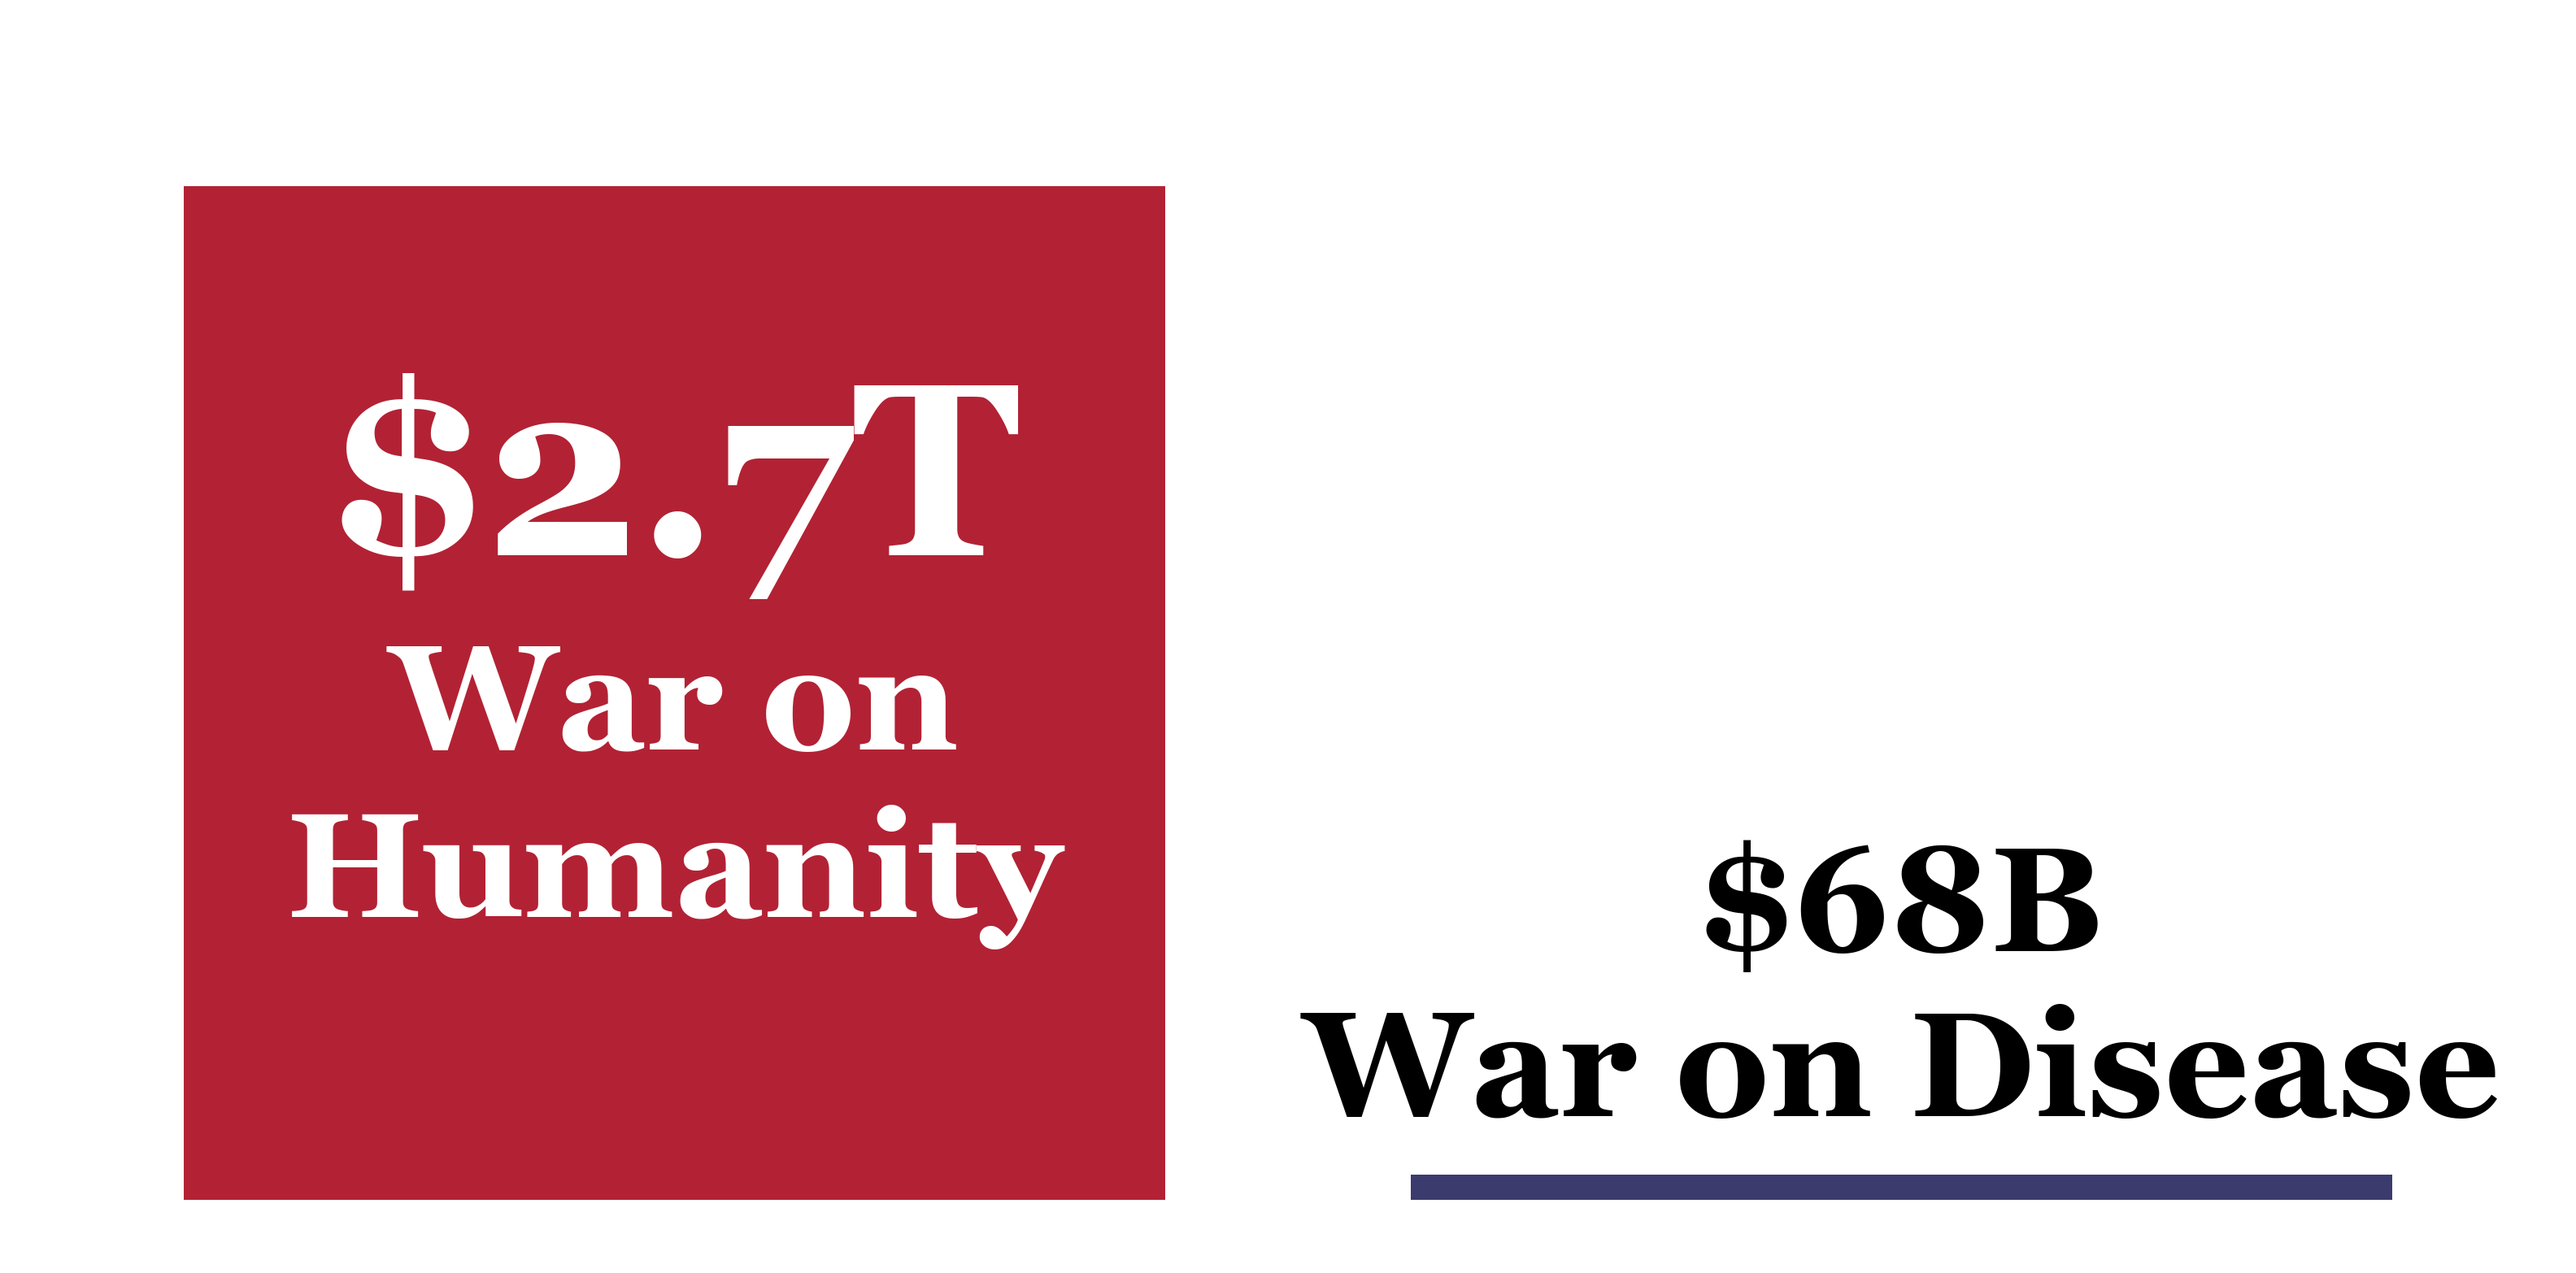
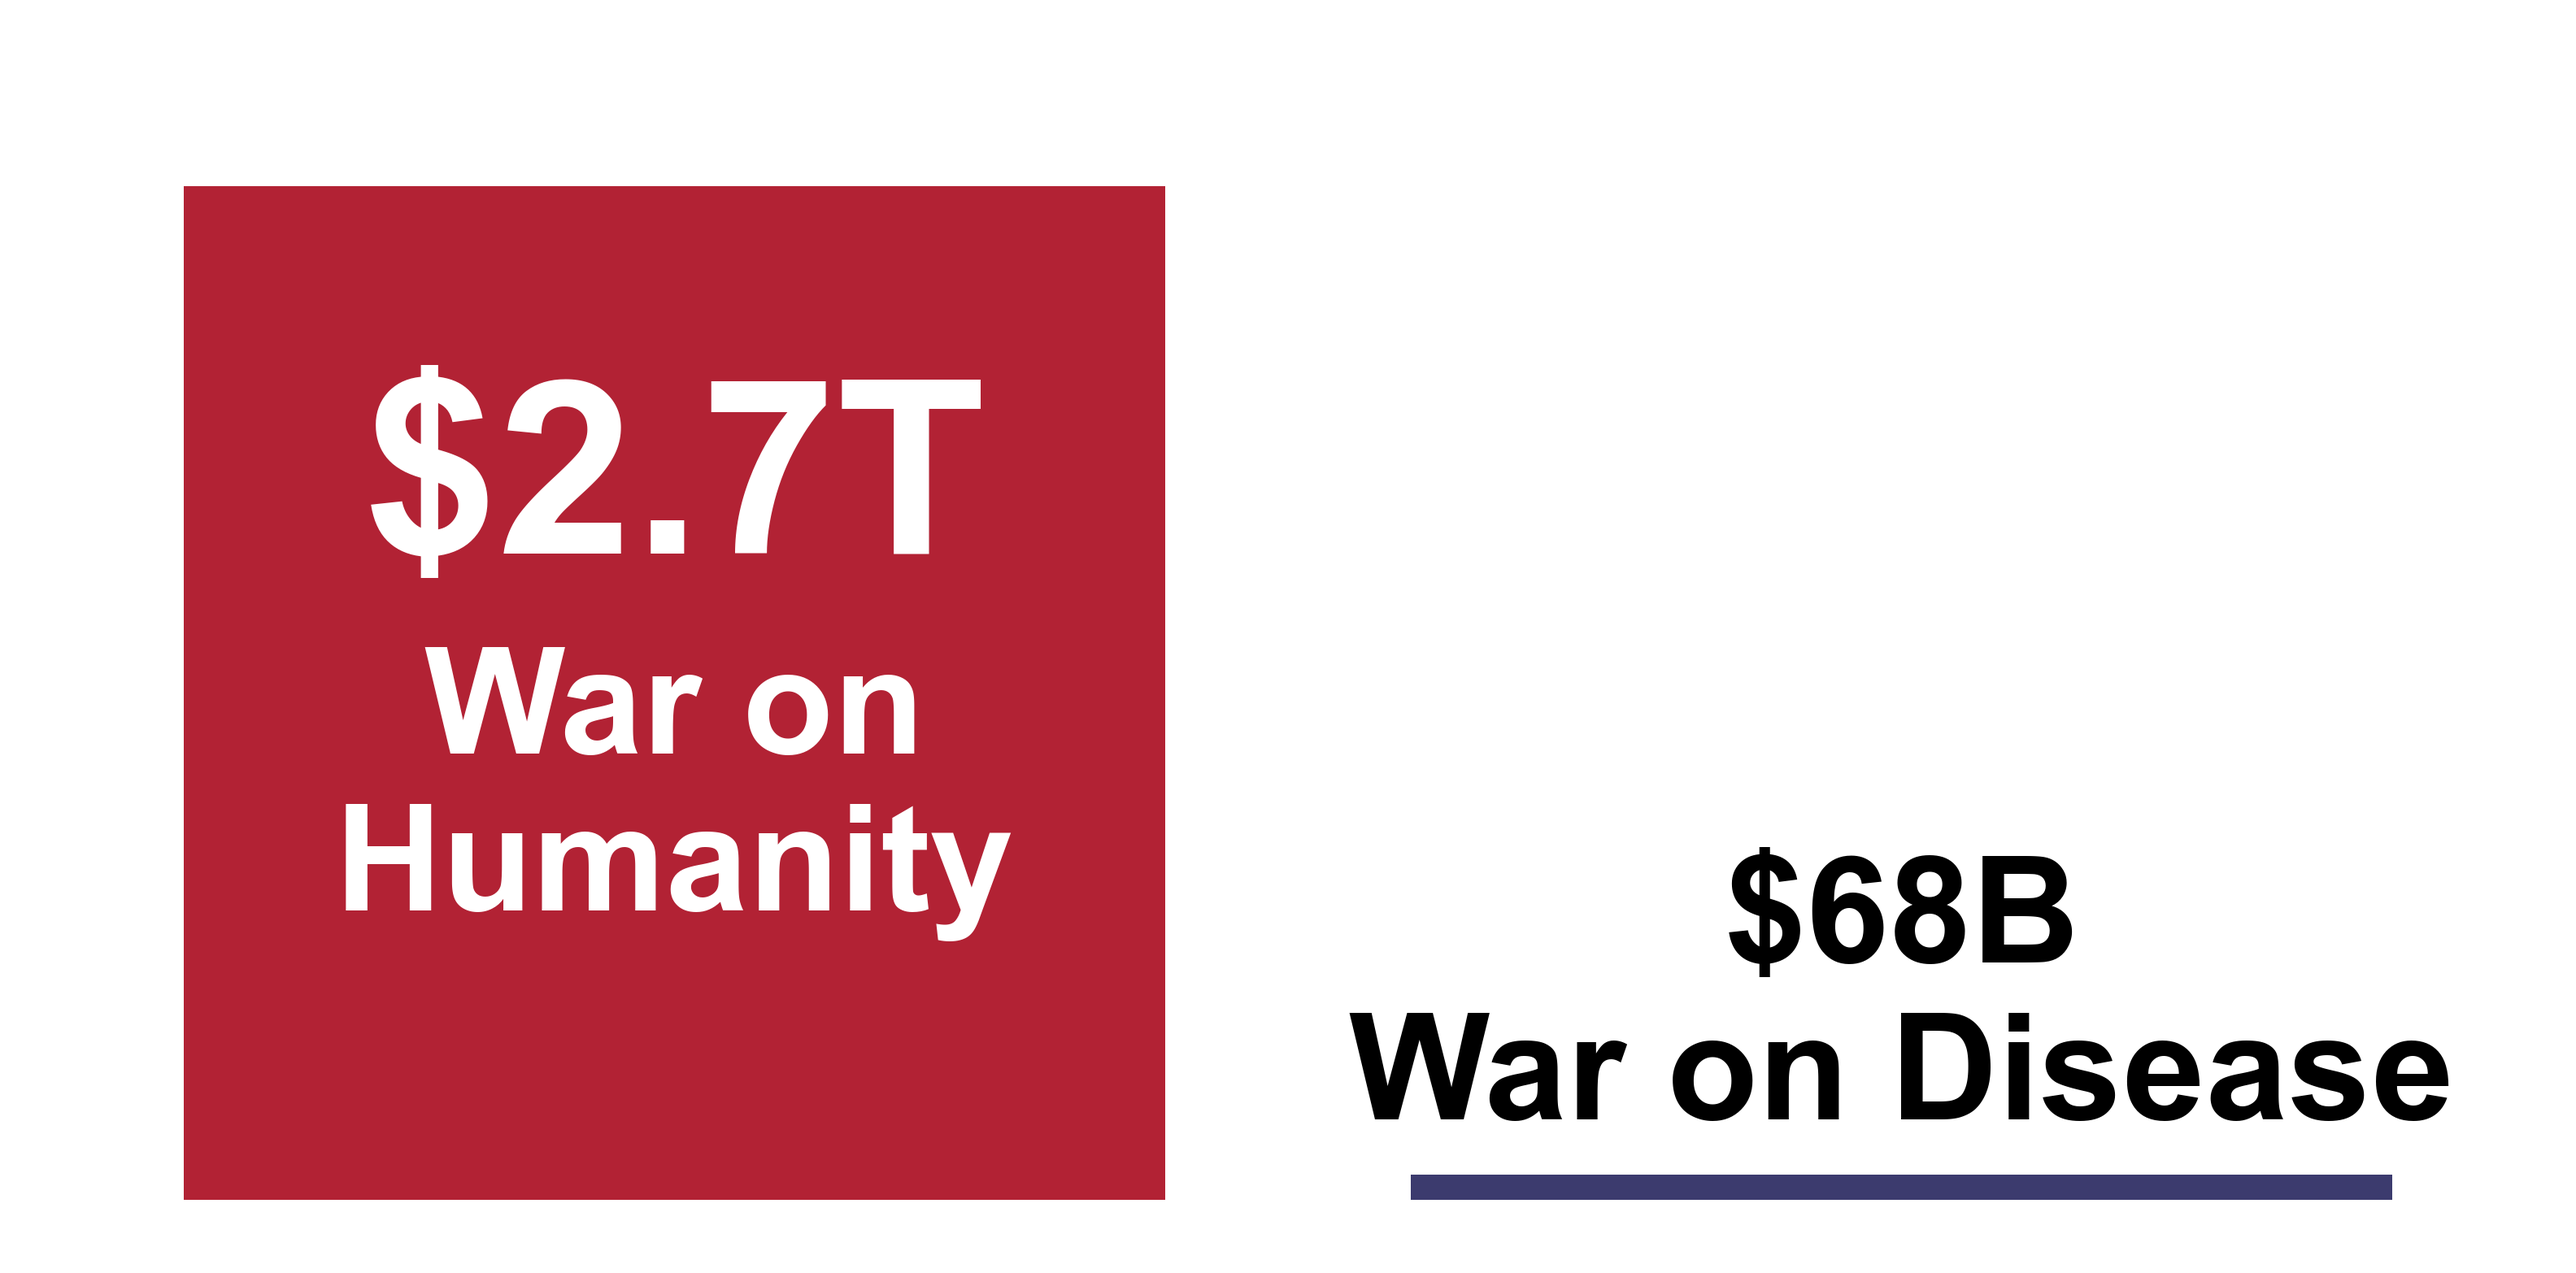
Refactor chart styling to use a clean sans-serif font for improved readability. Disable LaTeX math parsing in matplotlib to prevent interpretation of dollar signs. Update charity cost vs ROI comparison visualization with enhanced calculation details and layout adjustments for clarity.

diff --git a/brain/figures/_chart_style.py b/brain/figures/_chart_style.py
@@ -64,11 +64,12 @@ def setup_chart_style(style='light', dpi=150):
         text_color = COLOR_WHITE
         grid_color = '#4a4a4a'  # Charcoal for dark mode
 
-    # Typography - classic newspaper serif style
-    rcParams['font.family'] = 'serif'
-    rcParams['font.serif'] = ['Georgia', 'Palatino', 'Palatino Linotype', 'Charter', 'Times New Roman', 'serif']
+    # Typography - clean professional sans-serif style
+    rcParams['font.family'] = 'sans-serif'
+    rcParams['font.sans-serif'] = ['Arial', 'Helvetica', 'DejaVu Sans', 'sans-serif']
     rcParams['font.size'] = 12
     rcParams['font.weight'] = 'normal'
+    rcParams['text.usetex'] = False  # Prevent LaTeX math parsing
 
     # Colors
     rcParams['figure.facecolor'] = bg_color
